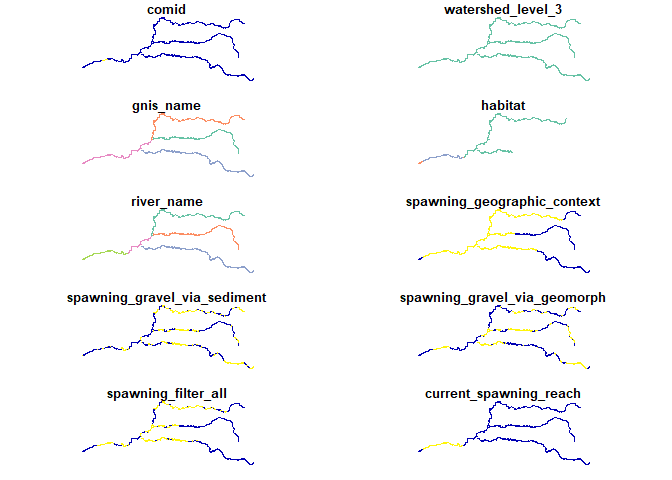
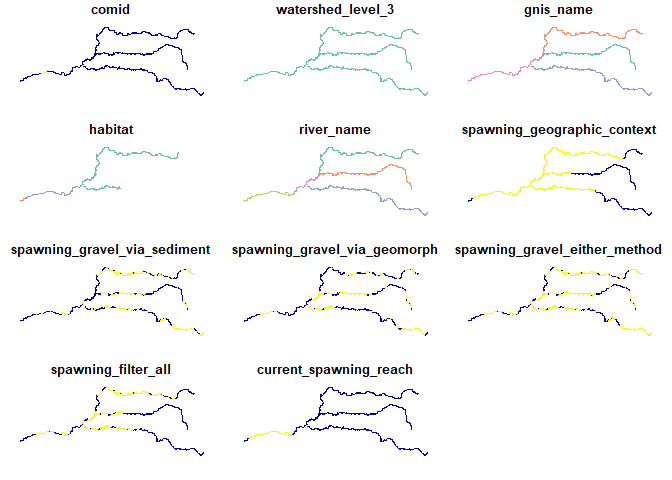
merge to ensure aligned with latest model outputs

diff --git a/data-raw/scripts/spawning-gravel-carrying-capacity.md b/data-raw/scripts/spawning-gravel-carrying-capacity.md
@@ -1,7 +1,7 @@
 Spawning Gravel Carrying Capacity
 ================
 [Skyler Lewis](mailto:slewis@flowwest.com)
-2024-09-24
+2024-10-04
 
 - [Actuals](#actuals)
 - [Predictions](#predictions)
@@ -69,7 +69,7 @@ selected_streams <-
   left_join(spawning_context, by=join_by(comid)) |>
   mutate(across(starts_with("spawning"), function(x) coalesce(x, FALSE))) |>
   mutate(current_spawning_reach = coalesce(str_detect(habitat, "spawning"), FALSE)) |>
-  glimpse_plot()
+  glimpse_plot(max.plot = Inf)
 ```
 
 ![](spawning-gravel-carrying-capacity_files/figure-gfm/unnamed-chunk-2-1.png)<!-- -->
